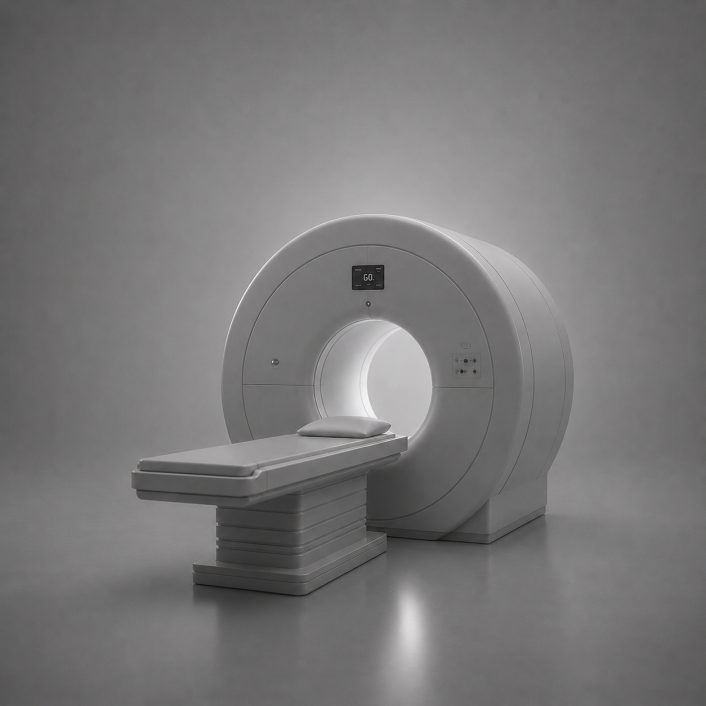
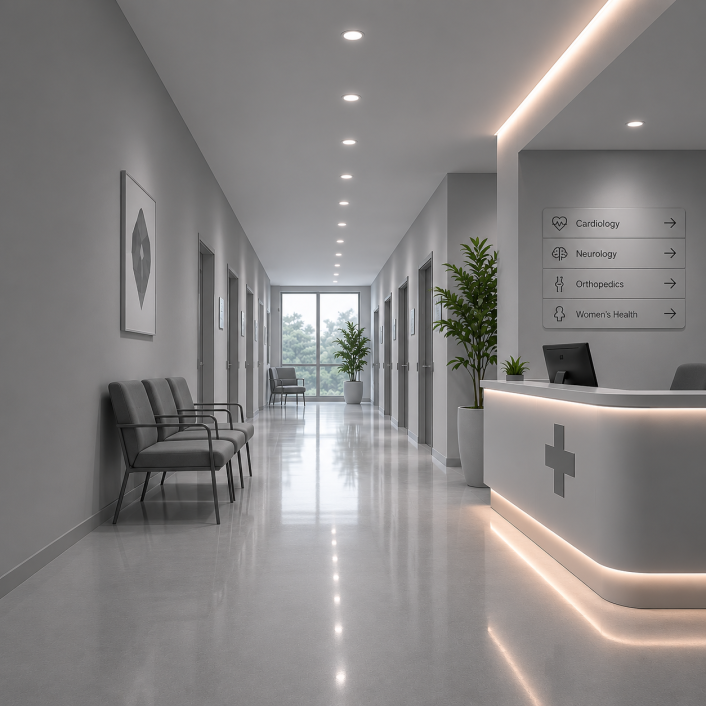
changes 2.8

diff --git a/app/clinic/page.tsx b/app/clinic/page.tsx
@@ -219,12 +219,12 @@ export default async function ClinicHomePage() {
                   </div>
                   <div className="f-clinic-arrow down"><i className="ti ti-chevron-right"></i></div>
                 </div>
-                <div className="f-clinic-item" data-image="/Clinic/diagonist%20labs.webp">
+                <div className="f-clinic-item" data-image="/Clinic/diagonistic%20lab.webp">
                   <div className="f-clinic-item-content">
                     <span className="f-clinic-tag">Diagnostic</span>
                     <p className="f-clinic-title">Diagnostic Labs &amp; Radiology Centers</p>
                     <div className="f-clinic-subheader-wrap"><p className="f-clinic-subheader">Don&apos;t let reports get lost in an inbox. Deliver results directly to the patient&apos;s ABHA-linked record, ensuring that doctors see your findings the moment they are ready.</p></div>
-                    <div className="f-clinic-inline-img-wrap"><div className="f-clinic-inline-img-inner"><img src="/Clinic/diagonist%20labs.webp" alt="Diagnostic centre" /></div></div>
+                    <div className="f-clinic-inline-img-wrap"><div className="f-clinic-inline-img-inner"><img src="/Clinic/diagonistic%20lab.webp" alt="Diagnostic centre" /></div></div>
                   </div>
                   <div className="f-clinic-arrow down"><i className="ti ti-chevron-right"></i></div>
                 </div>

diff --git a/app/clinic/contact/page.tsx b/app/clinic/contact/page.tsx
@@ -83,7 +83,7 @@ export default function ClinicContactPage() {
             </div>
           </div>
           <div className="ct-left-bottom">
-            <p className="ct-social-note">Prefer to chat first? Send us a mail or connect with us<br />on social &mdash; we&apos;re always happy to help.</p>
+            <p className="ct-social-note">Prefer to chat first? Send us a mail or connect with us<br />on social, we&apos;re always happy to help.</p>
             <div className="ct-socials">
               <a href="#" className="ct-social-btn" aria-label="LinkedIn"><i className="ti ti-brand-linkedin"></i></a>
               <a href="#" className="ct-social-btn" aria-label="X"><i className="ti ti-brand-x"></i></a>
@@ -126,7 +126,7 @@ export default function ClinicContactPage() {
           {status === 'success' && (
             <div className="ct-success visible" role="alert">
               <SuccessAnimation />
-              <h2 className="ct-success-heading"><span style={{color:'#00a000'}}>Welcome</span> to Ninto Beta</h2>
+              <h2 className="ct-success-heading"><span style={{color:'#4e4e4e'}}>Welcome</span> to <span style={{color:'#00a000'}}>Ninto Beta</span></h2>
               <p className="ct-success-sub">Our team will review your submission within 48hrs and reach you with early access details.</p>
             </div>
           )}

diff --git a/app/contact/page.tsx b/app/contact/page.tsx
@@ -84,7 +84,7 @@ export default function ContactPage() {
             </div>
           </div>
           <div className="ct-left-bottom">
-            <p className="ct-social-note">Prefer to chat first? Send us a mail or connect with us<br />on social &mdash; we&apos;re always happy to help.</p>
+            <p className="ct-social-note">Prefer to chat first? Send us a mail or connect with us<br />on social, we&apos;re always happy to help.</p>
             <div className="ct-socials">
               <a href="#" className="ct-social-btn" aria-label="LinkedIn"><i className="ti ti-brand-linkedin"></i></a>
               <a href="#" className="ct-social-btn" aria-label="X"><i className="ti ti-brand-x"></i></a>
@@ -127,7 +127,7 @@ export default function ContactPage() {
           {status === 'success' && (
             <div className="ct-success visible" role="alert">
               <SuccessAnimation />
-              <h2 className="ct-success-heading"><span style={{color:'#00a000'}}>Welcome</span> to Ninto Beta</h2>
+              <h2 className="ct-success-heading"><span style={{color:'#4e4e4e'}}>Welcome</span> to <span style={{color:'#00a000'}}>Ninto Beta</span></h2>
               <p className="ct-success-sub">Our team will review your submission within 48hrs and reach you with early access details.</p>
             </div>
           )}
